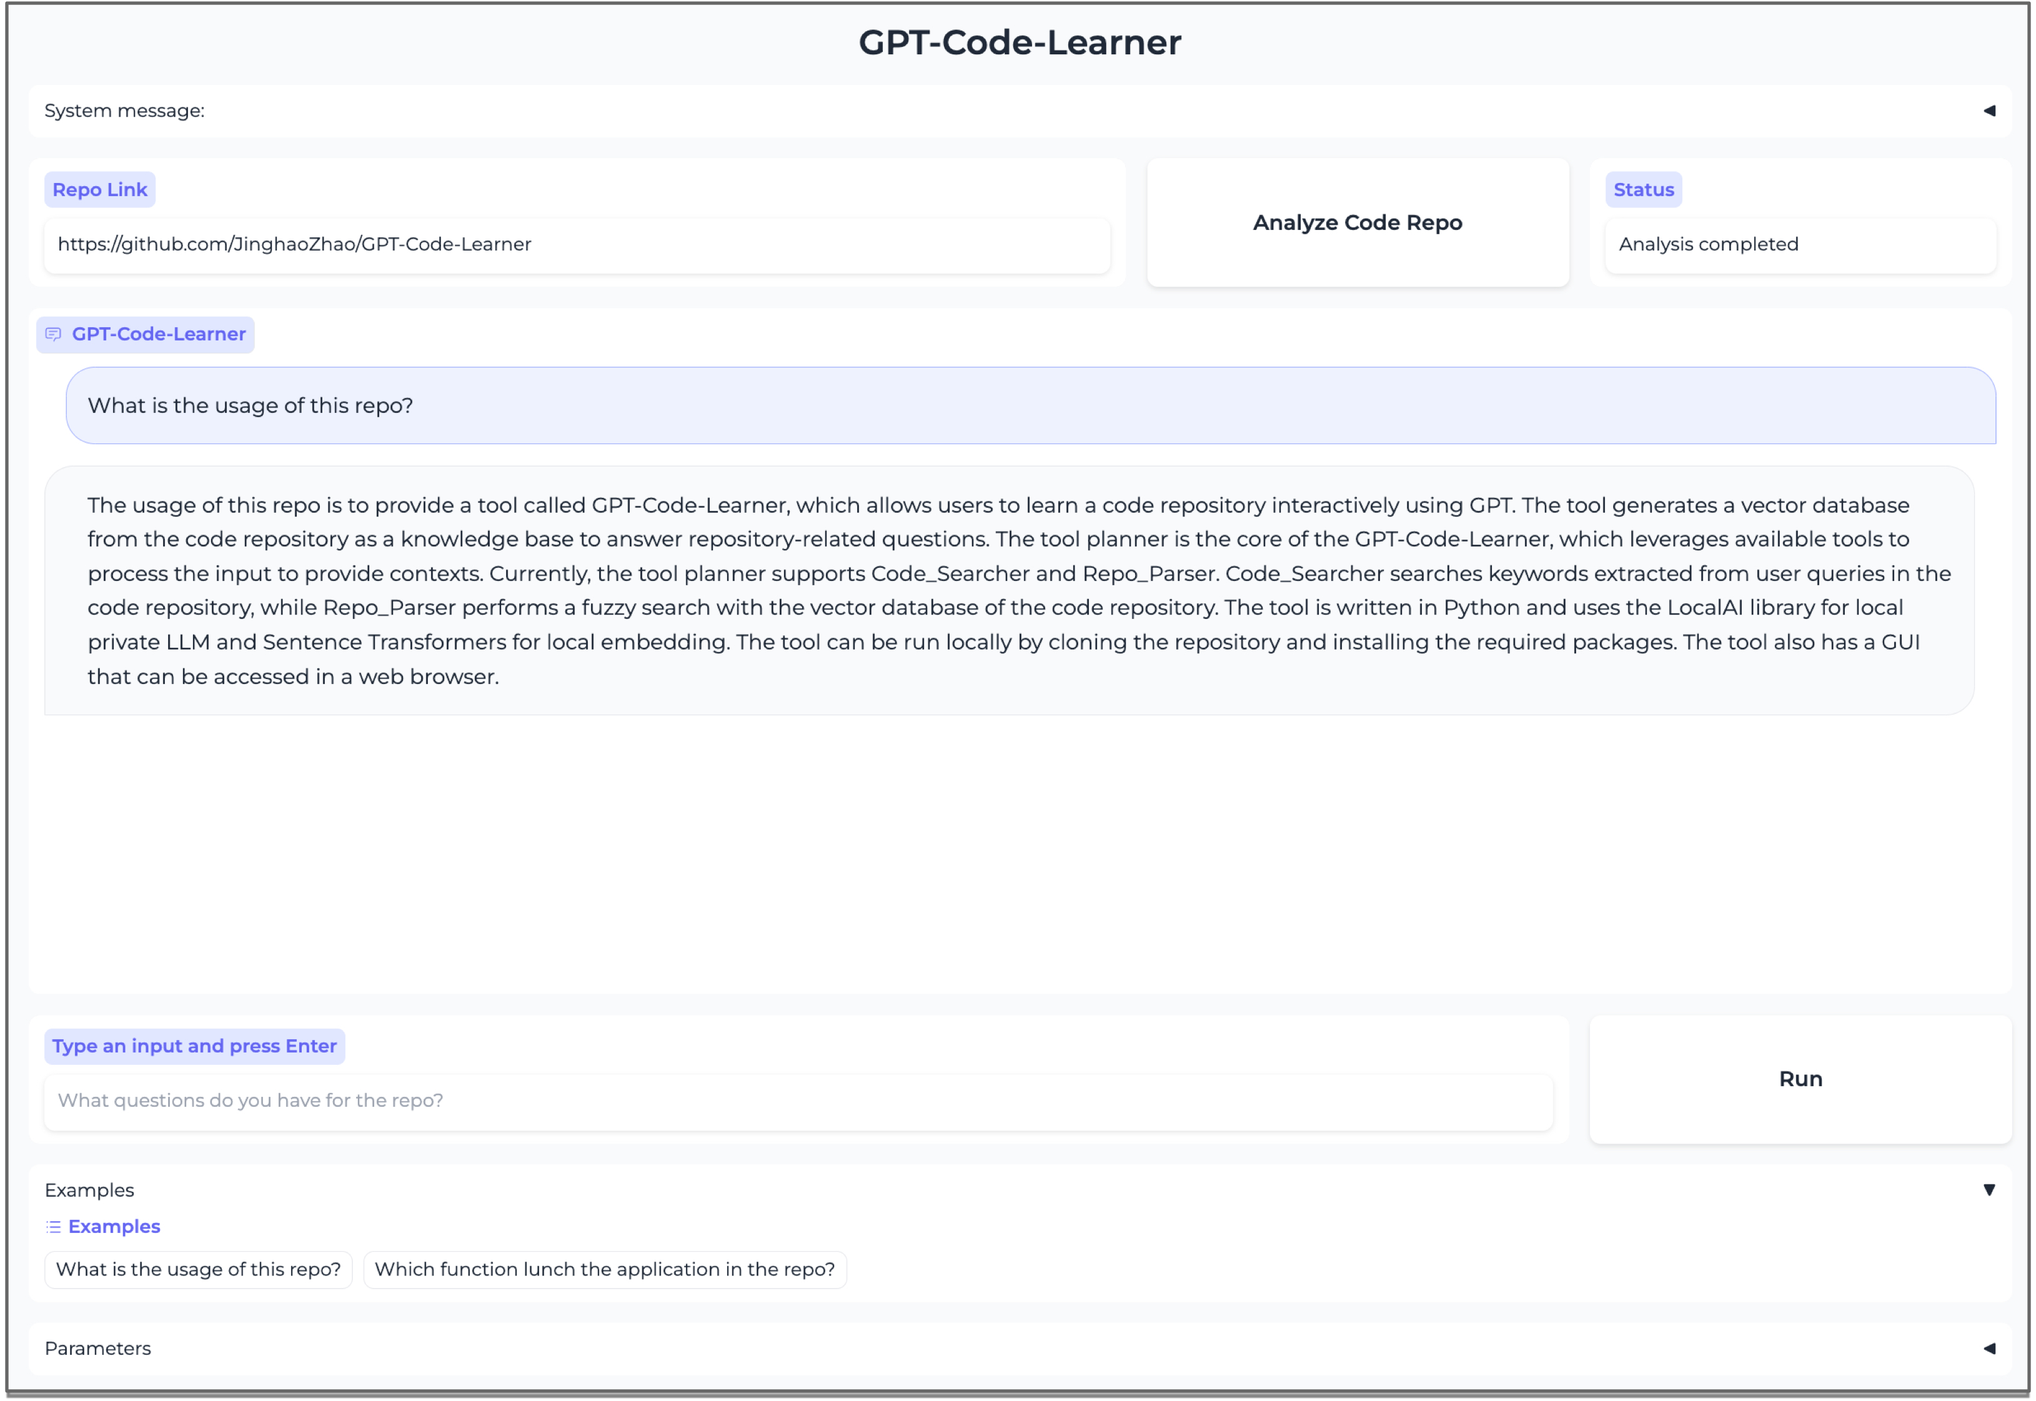
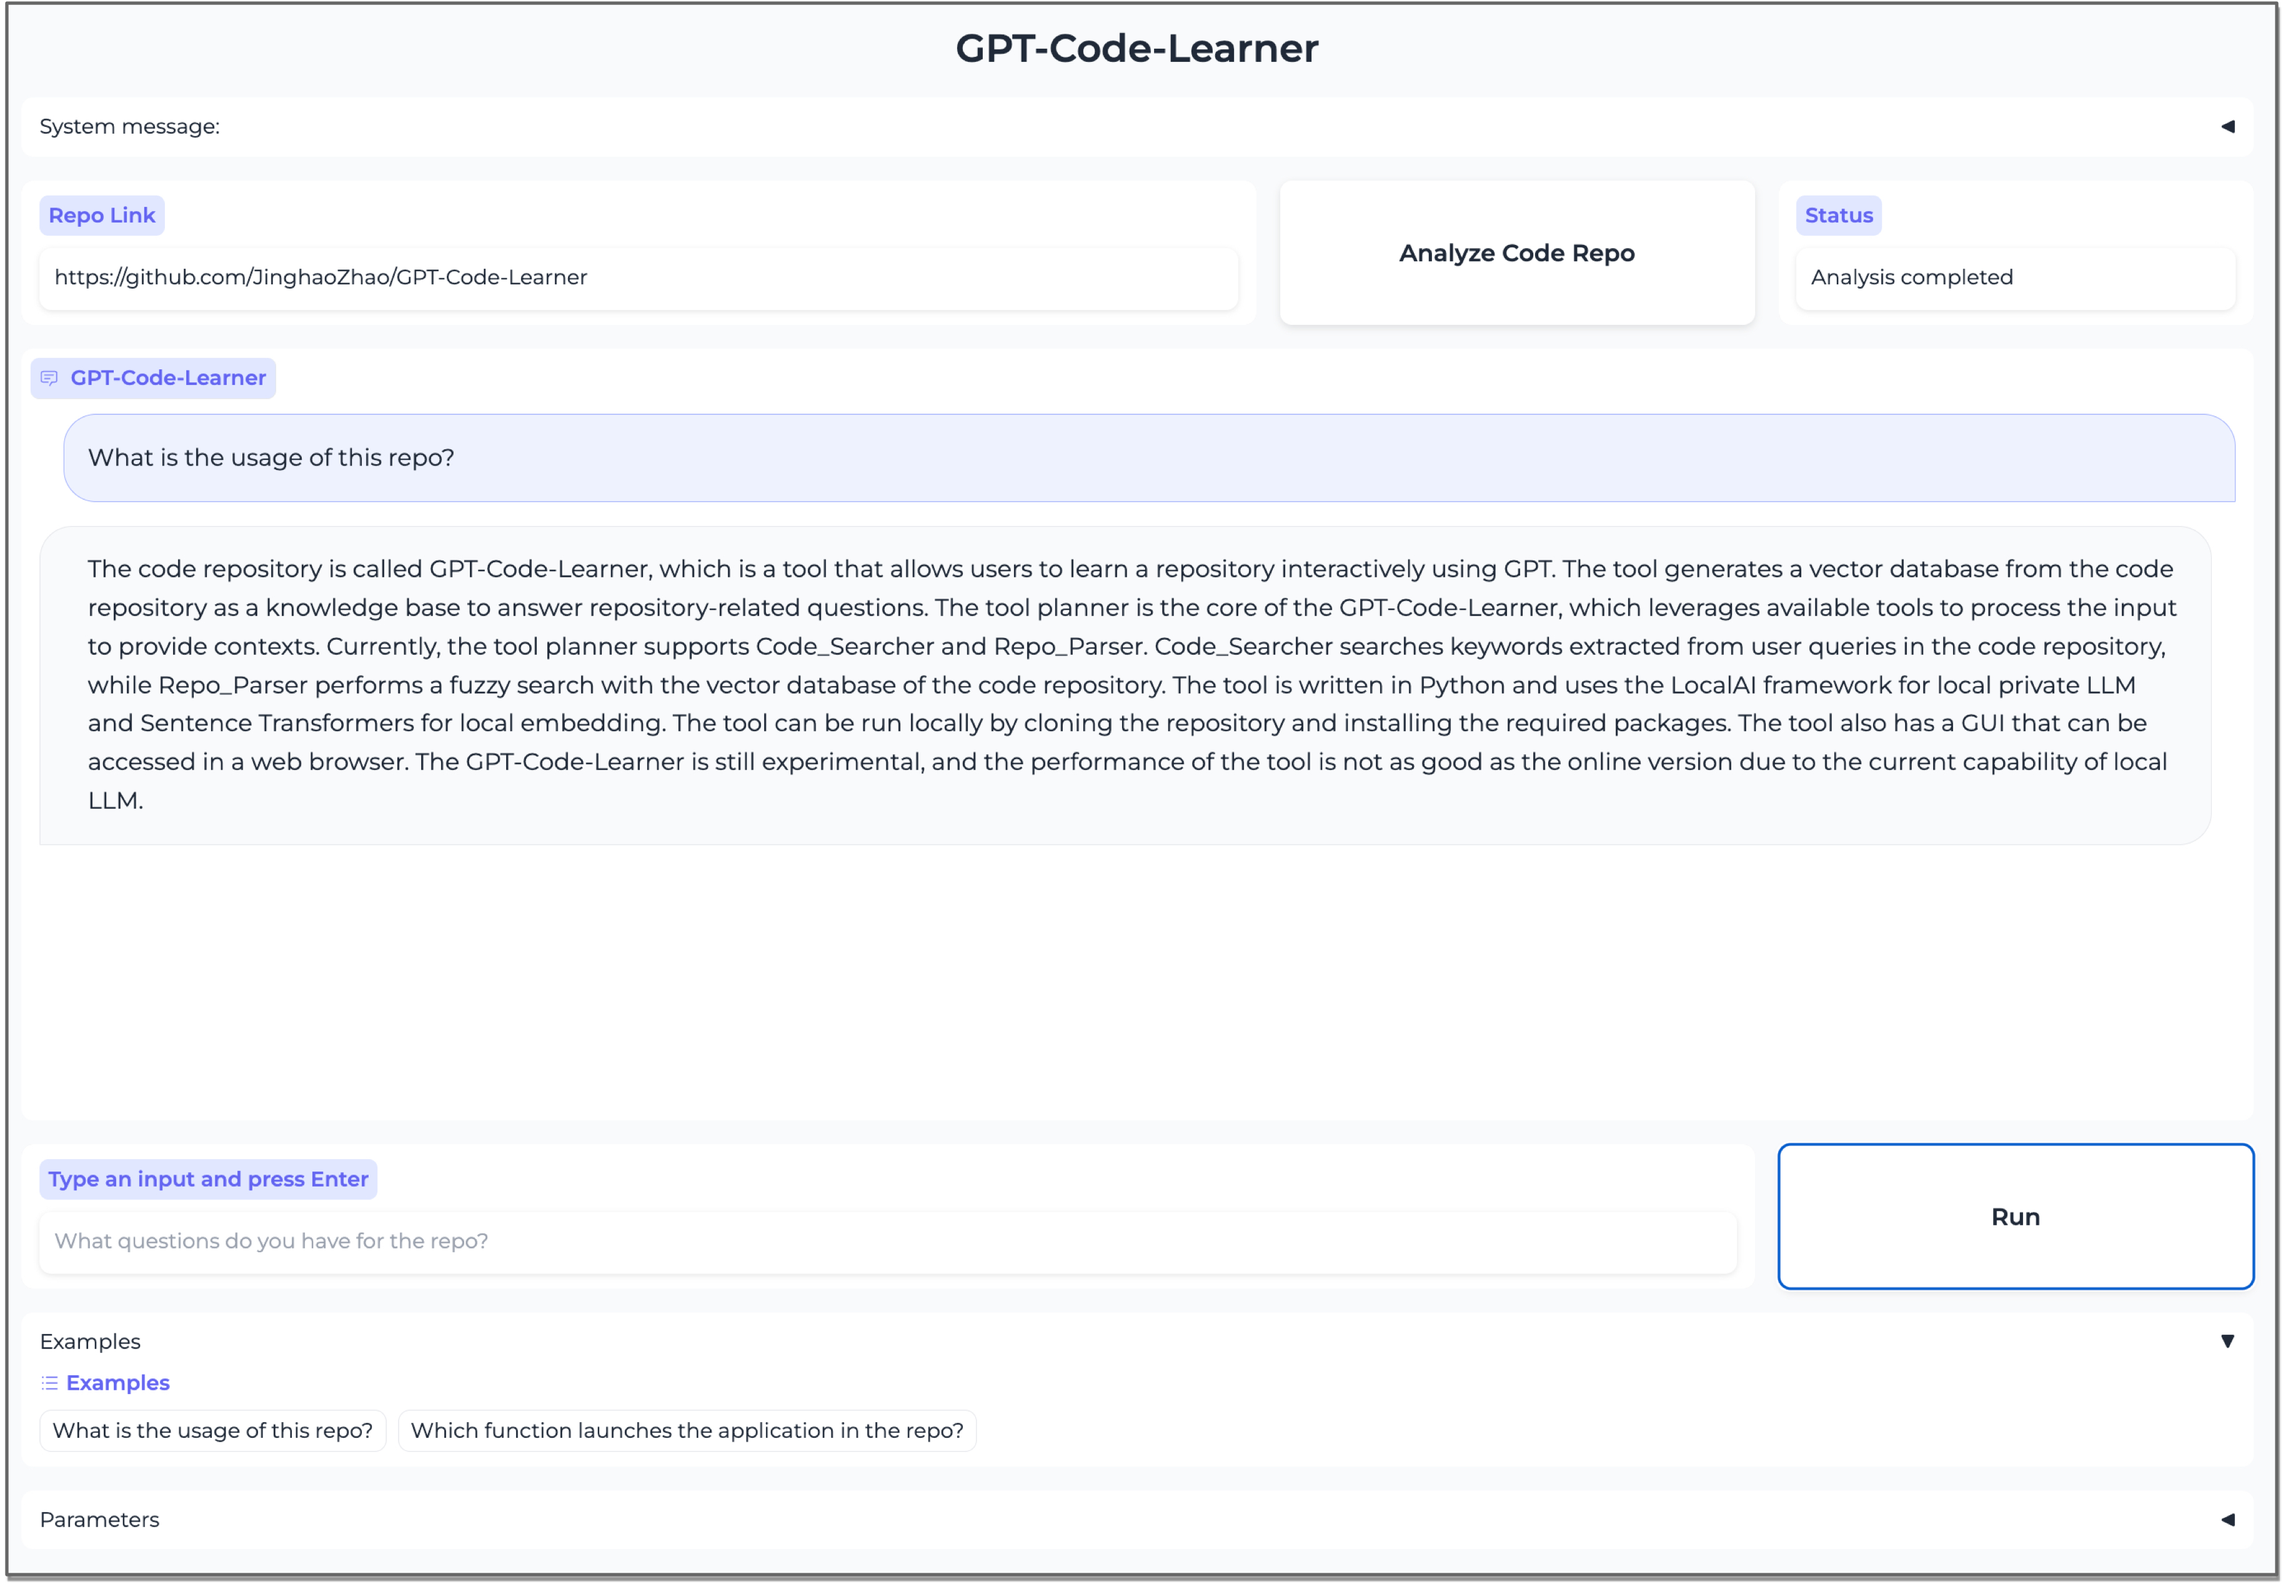
Update Readme Figure

diff --git a/code_learner.py b/code_learner.py
@@ -219,7 +219,7 @@ def main():
                 gr.Examples(
                     examples=[
                         ["What is the usage of this repo?"],
-                        ["Which function lunch the application in the repo?"],
+                        ["Which function launches the application in the repo?"],
                     ],
                     inputs=inputs)
 
